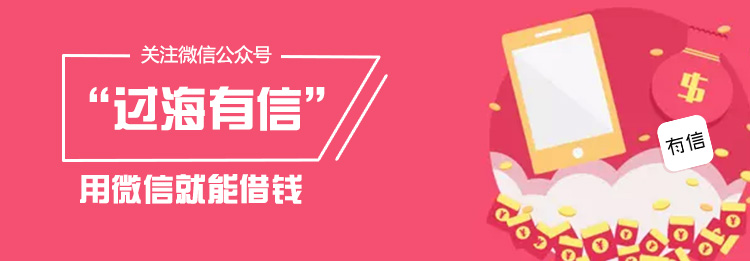
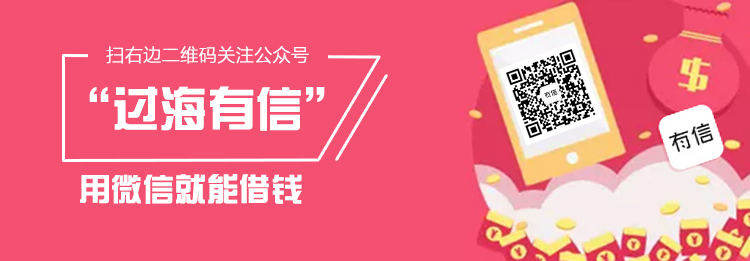
修改BUG，添加新需求

diff --git a/src/assets/font/iconfont.css b/src/assets/font/iconfont.css
@@ -1,10 +1,10 @@
 
 @font-face {font-family: "iconfont";
-  src: url('iconfont.eot?t=1515042816079'); /* IE9*/
-  src: url('iconfont.eot?t=1515042816079#iefix') format('embedded-opentype'), /* IE6-IE8 */
[1 lines of base64/hex data omitted]
-  url('iconfont.ttf?t=1515042816079') format('truetype'), /* chrome, firefox, opera, Safari, Android, iOS 4.2+*/
-  url('iconfont.svg?t=1515042816079#iconfont') format('svg'); /* iOS 4.1- */
+  src: url('iconfont.eot?t=1515392764407'); /* IE9*/
+  src: url('iconfont.eot?t=1515392764407#iefix') format('embedded-opentype'), /* IE6-IE8 */
[1 lines of base64/hex data omitted]
+  url('iconfont.ttf?t=1515392764407') format('truetype'), /* chrome, firefox, opera, Safari, Android, iOS 4.2+*/
+  url('iconfont.svg?t=1515392764407#iconfont') format('svg'); /* iOS 4.1- */
 }
 
 .iconfont {
@@ -22,6 +22,8 @@
 .icon-mobile:before { content: "\e60c"; }
 
 .icon-id-front:before { content: "\e647"; }
+
+.icon-wechat:before { content: "\e642"; }
 
 .icon-my-loan:before { content: "\e6b3"; }
 

diff --git a/src/views/layout/Layout.vue b/src/views/layout/Layout.vue
@@ -1,18 +1,16 @@
 <template>
   <div class="loan-wrap">
-    <view-box>
-      <router-view />
-      <tabbar>
-        <tabbar-item :selected="name === 'Loan'" link="/">
-          <i slot="icon" class="iconfont icon-home"></i>
-          <span slot="label">首页</span>
-        </tabbar-item>
-        <tabbar-item :selected="name === 'Publish'" link="/publish">
-          <i slot="icon" class="iconfont icon-borrow"></i>
-          <span slot="label">我要借款</span>
-        </tabbar-item>
-      </tabbar>
-    </view-box>
+    <router-view />
+    <tabbar>
+      <tabbar-item :selected="name === 'Loan'" link="/">
+        <i slot="icon" class="iconfont icon-home"></i>
+        <span slot="label">首页</span>
+      </tabbar-item>
+      <tabbar-item :selected="name === 'Publish'" link="/publish">
+        <i slot="icon" class="iconfont icon-borrow"></i>
+        <span slot="label">我要借款</span>
+      </tabbar-item>
+    </tabbar>
   </div>
 </template>
 

diff --git a/src/mock/modules/login.js b/src/mock/modules/login.js
@@ -17,13 +17,13 @@ const init = Mock.mock({
   resultMsg: 'OK',
   data: {
     shareLink: '',
-    qrcodeLink: 'https://m.y.qq.com/',
-    agreementLink: 'https://m.y.qq.com/',
-    about: 'https://m.y.qq.com/',
-    lenderQuestionLink: 'https://m.y.qq.com/',
-    loanerQuestionLink: 'https://m.y.qq.com/',
-    lenderRegisterLink: 'https://m.y.qq.com/',
-    loanerRegisterLink: 'https://m.y.qq.com/',
+    qrcodeLink: 'http://youxin.51morecash.com/api/wap/wenti-jk',
+    agreementLink: 'http://youxin.51morecash.com/api/wap/wenti-jk',
+    about: 'http://youxin.51morecash.com/api/wap/wenti-jk',
+    lenderQuestionLink: 'http://youxin.51morecash.com/api/wap/wenti-jk',
+    loanerQuestionLink: 'http://youxin.51morecash.com/api/wap/wenti-jk',
+    lenderRegisterLink: 'http://youxin.51morecash.com/api/wap/wenti-jk',
+    loanerRegisterLink: 'http://youxin.51morecash.com/api/wap/wenti-jk',
     userInfo: {
       userId: 0,
       merchantId: 0,

diff --git a/src/style/loan.less b/src/style/loan.less
@@ -378,23 +378,22 @@ body {
 }
 
 // 底部
-.loan-wrap {
-  .weui-tabbar {
-    background: #fff;
-  }
-  .weui-tabbar__item {
-    padding: 0;
-  }
-  .weui-tabbar__icon {
-    width: 38px;
-    height: 34px;
-  }
-  .weui-tabbar__item.weui-bar__item_on {
-    .weui-tabbar__label,
-    .weui-tabbar__icon,
-    i {
-      color: @loan-yellow !important;
-    }
+.weui-tabbar {
+  position: fixed !important;
+  background: #fff !important;
+}
+.weui-tabbar__item {
+  padding: 0 !important;
+}
+.weui-tabbar__icon {
+  width: 38px !important;
+  height: 34px !important;
+}
+.weui-tabbar__item.weui-bar__item_on {
+  .weui-tabbar__label,
+  .weui-tabbar__icon,
+  i {
+    color: @loan-yellow !important;
   }
 }
 

diff --git a/src/views/loan/index.vue b/src/views/loan/index.vue
@@ -31,6 +31,11 @@
           <i class="iconfont icon-add" slot="icon"></i>
         </cell>
       </group>
+      <group class="loan-body_item">
+        <cell is-link title="关注我们" link="/follow">
+          <i class="iconfont icon-wechat" slot="icon"></i>
+        </cell>
+      </group>
       <div class="loan-body_grid">
         <grid>
           <grid-item label="我的借条" link="/orderList">
@@ -76,6 +81,7 @@ export default {
 </script>
 <style lang="less">
 .loan-body-index {
+  padding-bottom: 60px;
   min-height: 400px;
 }
 </style>

diff --git a/src/components/iframe/index.vue b/src/components/iframe/index.vue
@@ -1,7 +1,7 @@
 <template>
     <div v-transfer-dom>
-      <popup v-model="popupShow" position="bottom" max-height="100%">
-        <iframe :src="src" frameborder="0"></iframe>
+      <popup v-model="popupShow" position="bottom" height="100vh">
+        <iframe :src="src" frameborder="0"  scrolling="auto"></iframe>
       </popup>
     </div>
 </template>
@@ -30,9 +30,6 @@ export default {
 iframe {
   display: block;
   width: 100%;
-  height: 100%;
-}
-.vux-popup-dialog {
-  height: 100% !important;
+  height: 100vh;
 }
 </style>

diff --git a/src/components/order/OrderListItem.vue b/src/components/order/OrderListItem.vue
@@ -4,7 +4,7 @@
       <router-link class="loan-card" :key="order.orderId" :to="{name:'OrderInfo', params: {orderId: order.orderId}}" >
         <div class="loan-card_hd clearfix">
           <span class="loan-hd_title">订单</span>
-          <span class="loan-hd_user">借款人：{{order.userRealName}}</span>
+          <span class="loan-hd_user">出借人：{{order.userRealName}}</span>
         </div>
         <div class="loan-card_bd vux-1px-b">
           <div class="loan-bd_img">

diff --git a/src/permission.js b/src/permission.js
@@ -2,7 +2,7 @@ import router from './router'
 import store from './store'
 import { getToken } from './utils/auth'
 
-const whiteList = ['/login', '/register', '/receive', '/forget', '/download', '/shareOrder', '/case']
+const whiteList = ['/login', '/register', '/receive', '/forget', '/download', '/shareOrder', '/case', '/success']
 
 router.beforeEach((to, from, next) => {
   document.title = to.meta.title || ''

diff --git a/src/views/follow/index.vue b/src/views/follow/index.vue
@@ -1,0 +1,17 @@
+<template>
+  <div class="loan-wrap" style="background:#fff">
+    <img src="../../assets/qrcode.png" alt="过海有信" class="loan-qrcode">
+  </div>
+</template>
+<script>
+export default {
+  name: 'FollowUs'
+}
+</script>
+<style lang="less">
+.loan-qrcode {
+  display: block;
+  width: 100%;
+  height: auto;
+}
+</style>

diff --git a/src/views/login/index.vue b/src/views/login/index.vue
@@ -39,7 +39,7 @@
     </div>
     <div class="login-link">
       <p>
-        <router-link to="/download">我是出借人</router-link>
+        <!-- <router-link to="/download">我是出借人</router-link> -->
       </p>
       <p>
         <router-link to="/forget">忘记密码</router-link>

diff --git a/src/router/index.js b/src/router/index.js
@@ -316,6 +316,14 @@ export const constantRouterMap = [
     }
   },
   {
+    path: '/follow',
+    name: 'Follow',
+    component: _import('follow/index'),
+    meta: {
+      title: '关注我们'
+    }
+  },
+  {
     path: '*',
     name: '404',
     component: _import('404'),
